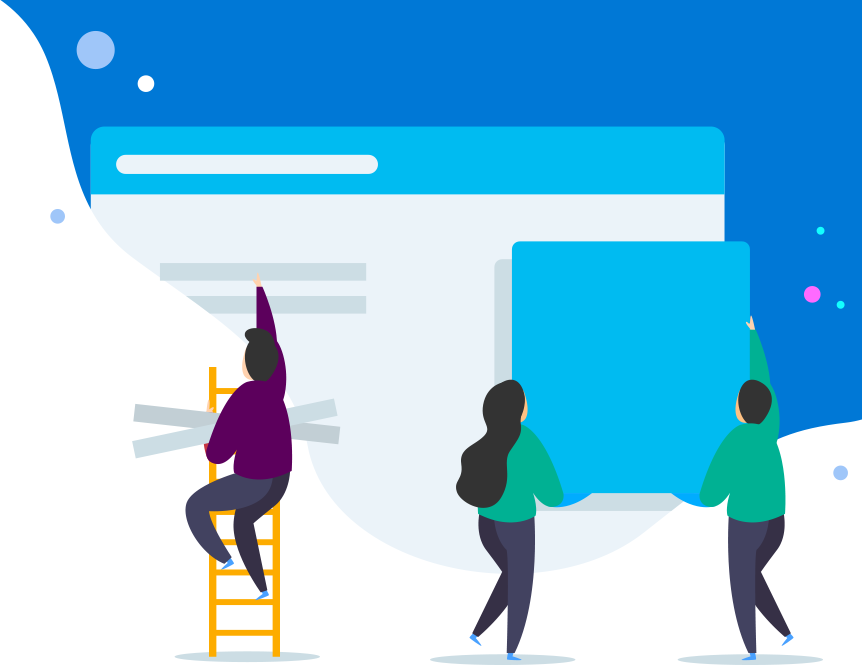
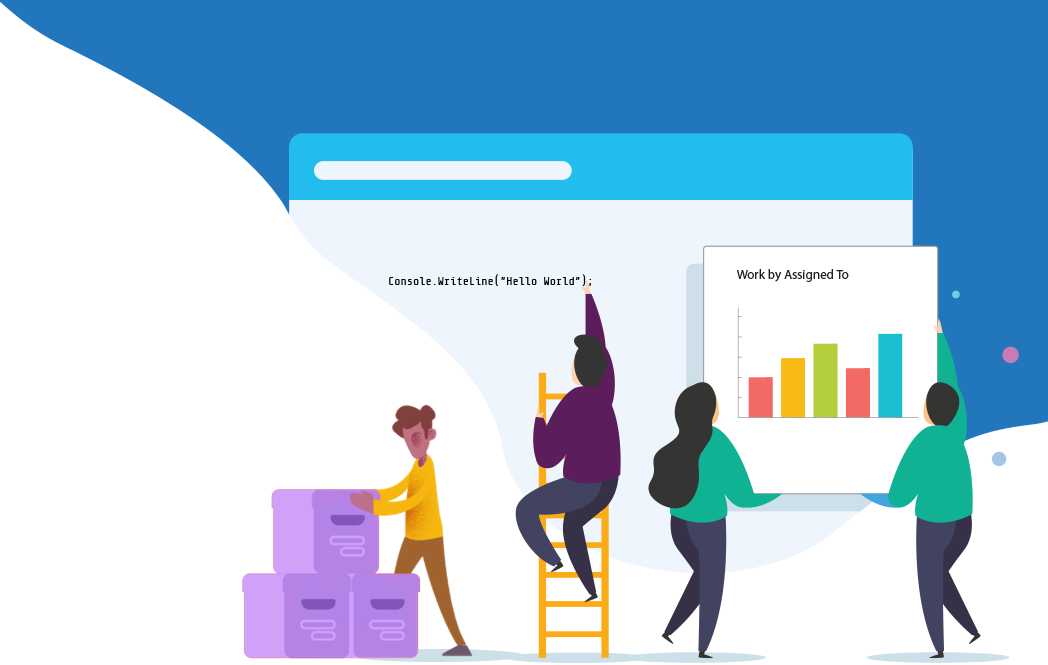
Graphic changes and handled access to create project

diff --git a/src/VstsDemoBuilder/assets/css/custom.min.css b/src/VstsDemoBuilder/assets/css/custom.min.css
@@ -7949,8 +7949,9 @@ html, body {
 
             .section-1 main .VSTS-hero-image .VSTS-hero {
                 flex: 1;
-                background: url(../images/VSTS_cover_image.png) bottom right/ 650px, #EBF5FF;
+                background: url(../images/VSTS_cover_image_3.png) top left/ 1000px, #EBF5FF;
                 background-repeat: no-repeat;
+                background-size:contain;
             }
 
                 .section-1 main .VSTS-hero-image .VSTS-hero img {

diff --git a/src/VstsDemoBuilder/Controllers/EnvironmentController.cs b/src/VstsDemoBuilder/Controllers/EnvironmentController.cs
@@ -960,7 +960,6 @@ namespace VstsDemoBuilder.Controllers
             }
 
             //create team project
-            //AddMessage(model.id, string.Format("Creating project {0}...", model.ProjectName));
             string jsonProject = model.ReadJsonFile(templatesFolder + "CreateProject.json");
             jsonProject = jsonProject.Replace("$projectName$", model.ProjectName).Replace("$processTemplateId$", processTemplateId);
 
@@ -974,6 +973,10 @@ namespace VstsDemoBuilder.Controllers
                     if (proj.LastFailureMessage.Contains("TF400813"))
                     {
                         AddMessage(model.id, "OAUTHACCESSDENIED");
+                    }
+                    else if (proj.LastFailureMessage.Contains("TF50309"))
+                    {
+                        AddMessage(model.id.ErrorId(), proj.LastFailureMessage);
                     }
                 }
                 Thread.Sleep(2000);
